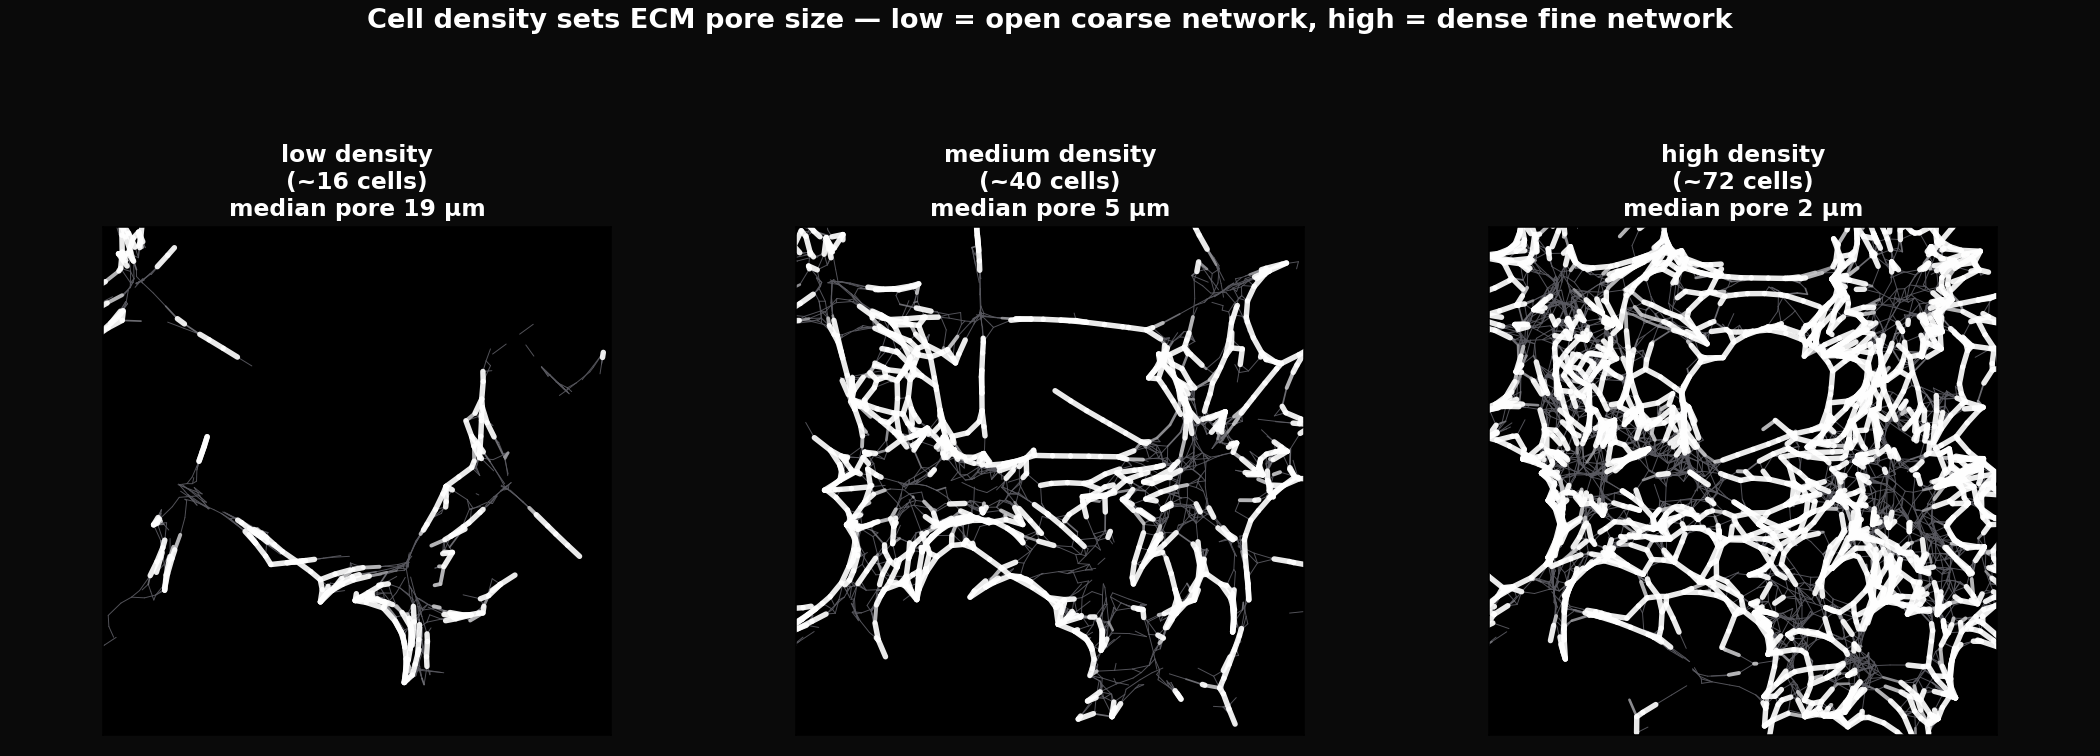
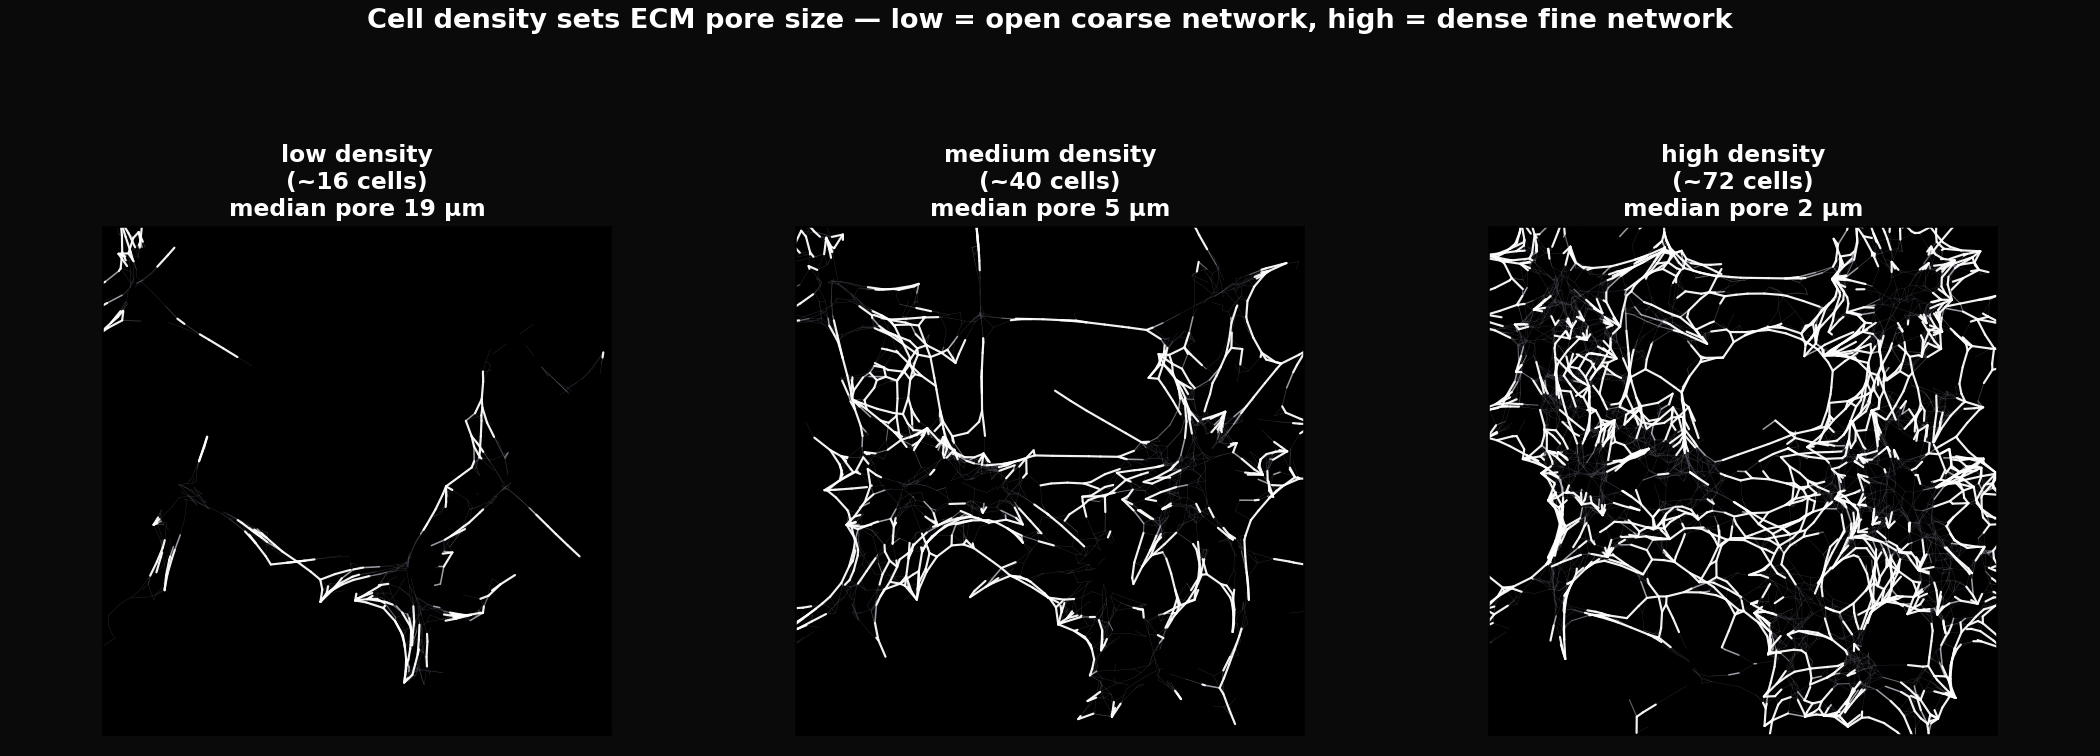
Add spheroid time-course + quantitative analysis; thinner rendering
- run_spheroid.py: a contractile spheroid (cell cluster) in a simple isotropic
  collagen gel, followed over a time axis — matrix condenses into radial collagen
  tracks that mature into permanent struts; two spheroids build an aligned bridge.
- ecm_pipeline/morpho_metrics.py: quantitative ECM metrics (pore sizes, nematic /
  radial alignment, reinforced fraction, strut thickness, connectivity, density
  profile vs distance) for time-course and condition comparisons.
- seeding.py: spheroid / spheroids cluster seeding.
- rendering: much thinner microscopy-like lines in both run_spheroid and
  run_culture (the previous thick white lines looked unrefined).

Quantitative time-course: radial alignment 0.64→ ~0.9 (above isotropic),
reinforced fraction 0→0.42, connectivity 0→0.95, with rim densification.

diff --git a/ecm-remodel3d/run_spheroid.py b/ecm-remodel3d/run_spheroid.py
@@ -1,0 +1,189 @@
+#!/usr/bin/env python3
+"""A spheroid in a simple collagen gel — time-course remodeling + quantification.
+
+Start simple: a uniform collagen sheet with one (or two) contractile spheroids.
+Over time the spheroid condenses the surrounding matrix into radially aligned
+fiber tracks and a dense rim, opening pores further out — the classic
+spheroid-in-collagen result. Two spheroids build an aligned ECM bridge between
+them. The emphasis here is the QUANTITATIVE time-course.
+
+Outputs (output_spheroid/figures/):
+  spheroid_timecourse.png   matrix condensing around the spheroid over time
+  spheroid_metrics.png      radial alignment, near-rim density, pore, connectivity vs t
+  two_spheroid_bridge.png   bridge formation + inter-spheroid alignment vs t
+
+  python run_spheroid.py
+"""
+
+from __future__ import annotations
+
+import os
+
+import matplotlib
+matplotlib.use("Agg")
+import matplotlib.pyplot as plt
+import numpy as np
+
+from ecm_pipeline import ecm_mechanics as mech, ecm_remodel as rem, seeding
+from ecm_pipeline import morpho_metrics as mm
+
+HERE = os.path.dirname(os.path.abspath(__file__))
+OUT = os.path.join(HERE, "output_spheroid")
+FIG = os.path.join(OUT, "figures")
+DOMAIN, Z = 220.0, 110.0
+c = DOMAIN / 2
+
+P = mech.MechParams(reach=26, reach_decay=16, planar=True, traction=1.5)
+RP = rem.RemodelParams(n_steps=8, compaction=0.05, reinforce_rate=0.28,
+                       reinforce_pct=62, slack_pct=32, slack_steps=3)
+ISO = 0.637   # radial-alignment value of an isotropic matrix (2/pi)
+
+
+def gel(seed=4, n_fibers=210):
+    return mech.build_random_network(DOMAIN, n_fibers=n_fibers, fiber_len=60,
+                                     seg_len=6.0, crosslink_dist=4.2,
+                                     seed=seed, slab_thickness=0.0)
+
+
+def draw(ax, net, cells=None):
+    """Thin, microscopy-like dark field (fine bright fibers on black)."""
+    ax.set_facecolor("black")
+    k = net.k_scale
+    kmax = max(k.max(), 1.5)
+    order = np.argsort(k)
+    for idx in order:
+        e = net.edges[idx]
+        pa, pb = net.nodes[e[0]], net.nodes[e[1]]
+        v = min(max((k[idx] - 1.0) / (kmax - 1.0), 0), 1)
+        g = 0.30 + 0.70 * v                     # brightness by reinforcement
+        ax.plot([pa[0], pb[0]], [pa[1], pb[1]], color=(g, g, min(1, g + 0.05)),
+                lw=0.22 + 0.95 * v, alpha=0.55 + 0.4 * v, solid_capstyle="round")
+    if cells is not None and len(cells):
+        ax.scatter(cells[:, 0], cells[:, 1], s=5, c="#35d6d0", alpha=0.35, zorder=5)
+    ax.set_xlim(20, DOMAIN - 20); ax.set_ylim(20, DOMAIN - 20)
+    ax.set_aspect("equal"); ax.set_xticks([]); ax.set_yticks([])
+
+
+def timecourse(cells):
+    """t=0 is the raw isotropic gel; then plastic remodeling frames."""
+    net0 = gel()
+    frames, _ = rem.remodel(net0, cells, P, RP)
+    return [net0] + [f["net"] for f in frames]
+
+
+def reinforced_length(net, k_thresh=1.4):
+    sel = net.k_scale > k_thresh
+    if not sel.any():
+        return 0.0
+    d = net.nodes[net.edges[sel, 1]] - net.nodes[net.edges[sel, 0]]
+    return float(np.sum(np.linalg.norm(d, axis=1)))
+
+
+# --------------------------------------------------------------------------- #
+def single_spheroid():
+    print("[1/2] single spheroid time-course …")
+    center = np.array([c, c, Z])
+    cells = seeding.spheroid(center, n_cells=24, radius=15.0, seed=1)
+    seq = timecourse(cells)
+    cols = [0, 2, 4, 6, len(seq) - 1]
+
+    fig, axes = plt.subplots(1, len(cols), figsize=(16, 4.0))
+    fig.patch.set_facecolor("#0a0a0a")
+    for ax, ci in zip(axes, cols):
+        draw(ax, seq[ci], cells)
+        lab = "t = 0 (isotropic gel)" if ci == 0 else f"t = {ci}"
+        ax.set_title(lab, color="white", fontsize=12, fontweight="bold")
+    fig.suptitle("Spheroid condenses the matrix into radial collagen tracks over time",
+                 color="white", fontweight="bold", fontsize=14, y=1.0)
+    fig.tight_layout(rect=[0, 0, 1, 0.9])
+    fig.savefig(os.path.join(FIG, "spheroid_timecourse.png"), dpi=140, facecolor=fig.get_facecolor())
+    plt.close(fig)
+
+    # ---- quantitative time-course ---------------------------------------
+    t = np.arange(len(seq))
+    radial = [mm.radial_alignment(n, center, reinforced_only=False) for n in seq]
+    reinf = [mm.reinforced_fraction(n) for n in seq]
+    pore = [np.median(mm.pore_sizes(n, DOMAIN, n=1500)) for n in seq]
+    conn = [mm.connectivity(n) for n in seq]
+    rlen = [reinforced_length(n) for n in seq]
+
+    fig, ax = plt.subplots(2, 3, figsize=(15, 8))
+    def plot(a, y, title, ylab, col):
+        a.plot(t, y, "o-", color=col); a.set(title=title, xlabel="time step", ylabel=ylab); a.grid(alpha=0.3)
+    plot(ax[0, 0], radial, "Radial matrix alignment (aster)", "0.64 iso · 1 radial", "#8948ff")
+    ax[0, 0].axhline(ISO, color="#888", ls=":", lw=1); ax[0, 0].text(0.2, ISO + 0.005, "isotropic", color="#888", fontsize=9)
+    plot(ax[0, 1], reinf, "Reinforced (strut) fiber fraction", "fraction", "#00a8a8")
+    plot(ax[0, 2], rlen, "Total reinforced collagen (strut length)", "µm", "#2457ff")
+    plot(ax[1, 0], pore, "Median pore radius", "µm", "#d04b4b")
+    plot(ax[1, 1], conn, "Strut-network connectivity", "largest comp. frac.", "#177245")
+
+    # density profile vs distance, at three times (rim compaction)
+    ax5 = ax[1, 2]
+    for ci, lab, col in [(2, "early", "#9fb3cc"), (len(seq)//2, "mid", "#7aa2ff"), (len(seq)-1, "final", "#d04b4b")]:
+        r, dens = mm.density_profile(seq[ci], center, DOMAIN)
+        if len(r):
+            ax5.plot(r, dens, "o-", color=col, label=lab)
+    ax5.set(title="Reinforced-ECM density vs distance from spheroid", xlabel="distance (µm)", ylabel="fiber length / area")
+    ax5.grid(alpha=0.3); ax5.legend(frameon=False)
+
+    fig.suptitle("Spheroid remodeling — quantitative time-course", fontweight="bold", fontsize=14)
+    fig.tight_layout(rect=[0, 0, 1, 0.96])
+    fig.savefig(os.path.join(FIG, "spheroid_metrics.png"), dpi=140)
+    plt.close(fig)
+    print(f"      radial alignment {radial[0]:.2f} → {radial[-1]:.2f} (iso={ISO}); "
+          f"reinforced {reinf[0]:.2f} → {reinf[-1]:.2f}; pore {pore[0]:.1f} → {pore[-1]:.1f} µm")
+
+
+def two_spheroids():
+    print("[2/2] two-spheroid bridge …")
+    a = np.array([c - 42, c, Z]); b = np.array([c + 42, c, Z])
+    cells = seeding.spheroids([a, b], n_cells=20, radius=13.0, seed=1)
+    seq = timecourse(cells)
+    cols = [0, 2, 5, len(seq) - 1]
+
+    fig, axes = plt.subplots(1, len(cols), figsize=(16, 4.2))
+    fig.patch.set_facecolor("#0a0a0a")
+    for ax, ci in zip(axes, cols):
+        draw(ax, seq[ci], cells)
+        ax.set_title(f"t = {ci}", color="white", fontsize=12, fontweight="bold")
+    fig.suptitle("Two spheroids build an aligned collagen bridge between them",
+                 color="white", fontweight="bold", fontsize=14, y=1.0)
+    fig.tight_layout(rect=[0, 0, 1, 0.9])
+    fig.savefig(os.path.join(FIG, "two_spheroid_bridge.png"), dpi=140, facecolor=fig.get_facecolor())
+    plt.close(fig)
+
+    # reinforced collagen built in the band between the two spheroids
+    axis = b - a
+    def bridge_length(net):
+        sel = net.k_scale > 1.4
+        if sel.sum() < 1:
+            return 0.0
+        mid = 0.5 * (net.nodes[net.edges[sel, 0]] + net.nodes[net.edges[sel, 1]])[:, :2]
+        ab = (b - a)[:2]
+        t = np.clip(((mid - a[:2]) @ ab) / (ab @ ab), 0, 1)
+        proj = a[:2] + t[:, None] * ab
+        dperp = np.linalg.norm(mid - proj, axis=1)
+        d = net.nodes[net.edges[sel, 1]] - net.nodes[net.edges[sel, 0]]
+        L = np.linalg.norm(d, axis=1)
+        return float(np.sum(L[dperp < 22]))
+    bridge = [bridge_length(n) for n in seq]
+    fig, ax = plt.subplots(figsize=(7, 4.5))
+    ax.plot(range(len(seq)), bridge, "o-", color="#8948ff")
+    ax.set(title="Reinforced collagen built in the inter-spheroid bridge",
+           xlabel="time step", ylabel="reinforced fiber length in band (µm)")
+    ax.grid(alpha=0.3)
+    fig.tight_layout()
+    fig.savefig(os.path.join(FIG, "two_spheroid_alignment.png"), dpi=140)
+    plt.close(fig)
+    print(f"      bridge reinforced length {bridge[0]:.0f} → {bridge[-1]:.0f} µm")
+
+
+def main():
+    os.makedirs(FIG, exist_ok=True)
+    single_spheroid()
+    two_spheroids()
+    print("done. figures in", FIG)
+
+
+if __name__ == "__main__":
+    main()

diff --git a/ecm-remodel3d/ecm_pipeline/morpho_metrics.py b/ecm-remodel3d/ecm_pipeline/morpho_metrics.py
@@ -1,0 +1,123 @@
+"""Quantitative ECM-architecture metrics for the 2D culture/spheroid studies.
+
+All operate on a FiberNetwork (from ecm_mechanics / ecm_remodel) projected to the
+xy-plane. They are the readouts that turn "the pictures look different" into
+numbers you can plot over time or compare across conditions:
+
+  pore_sizes              distribution of cell-free gap radii (coverage/openness)
+  nematic_order           global fiber alignment (0 isotropic .. 1 aligned)
+  radial_alignment        fiber alignment RELATIVE to a center (spheroid asters)
+  reinforced_fraction     fraction of fibers matured into load-bearing struts
+  strut_thickness         bundle thickness via local fiber-density on struts
+  connectivity            largest-connected-component fraction of the strut graph
+  density_profile         fiber density vs distance from a center (compaction)
+"""
+
+from __future__ import annotations
+
+import numpy as np
+
+from . import metrics as _m
+
+
+def _edges_xy(net):
+    p1 = net.nodes[net.edges[:, 0]][:, :2]
+    p2 = net.nodes[net.edges[:, 1]][:, :2]
+    mid = 0.5 * (p1 + p2)
+    d = p2 - p1
+    L = np.linalg.norm(d, axis=1)
+    u = d / np.maximum(L[:, None], 1e-9)
+    return p1, p2, mid, u, L
+
+
+def pore_sizes(net, domain, n=4000, seed=1):
+    p1, p2, *_ = _edges_xy(net)
+    rng = np.random.default_rng(seed)
+    pts = rng.uniform(0, domain, size=(n, 2))
+    return _m.point_segment_distance(pts, p1, p2).min(axis=1)
+
+
+def nematic_order(net, reinforced_only=True, k_thresh=1.4):
+    _, _, _, u, L = _edges_xy(net)
+    sel = net.k_scale > k_thresh if reinforced_only else np.ones(len(L), bool)
+    if sel.sum() < 3:
+        return 0.0, np.nan
+    ang = np.arctan2(u[sel, 1], u[sel, 0])
+    w = L[sel]
+    c = np.average(np.cos(2 * ang), weights=w)
+    s = np.average(np.sin(2 * ang), weights=w)
+    order = float(np.hypot(c, s))
+    director = 0.5 * np.arctan2(s, c)
+    return order, director
+
+
+def radial_alignment(net, center, reinforced_only=True, k_thresh=1.4):
+    """Mean |fiber·radial|: 1 = fibers point at the center (aster), 0.5 isotropic."""
+    _, _, mid, u, L = _edges_xy(net)
+    sel = net.k_scale > k_thresh if reinforced_only else np.ones(len(L), bool)
+    if sel.sum() < 3:
+        return np.nan
+    r = mid[sel] - np.asarray(center)[:2]
+    r = r / np.maximum(np.linalg.norm(r, axis=1, keepdims=True), 1e-9)
+    return float(np.average(np.abs(np.einsum("ij,ij->i", u[sel], r)), weights=L[sel]))
+
+
+def reinforced_fraction(net, k_thresh=1.4):
+    return float(np.mean(net.k_scale > k_thresh)) if len(net.k_scale) else 0.0
+
+
+def strut_thickness(net, domain, k_thresh=1.4, cell=6.0):
+    """Median number of reinforced-fiber midpoints per occupied grid cell.
+
+    A proxy for how thick the condensed bundles (struts) are: condensation packs
+    more fibers into the same lateral spot, raising local density on struts.
+    """
+    _, _, mid, _, _ = _edges_xy(net)
+    sel = net.k_scale > k_thresh
+    if sel.sum() < 3:
+        return 0.0
+    keys = np.floor(mid[sel] / cell).astype(int)
+    _, counts = np.unique(keys, axis=0, return_counts=True)
+    return float(np.median(counts))
+
+
+def connectivity(net, k_thresh=1.4):
+    """Largest-connected-component fraction of the reinforced (strut) sub-network."""
+    sel = np.where(net.k_scale > k_thresh)[0]
+    if len(sel) < 2:
+        return 0.0
+    used_nodes = np.unique(net.edges[sel].ravel())
+    remap = {n: i for i, n in enumerate(used_nodes)}
+    parent = list(range(len(used_nodes)))
+
+    def find(a):
+        while parent[a] != a:
+            parent[a] = parent[parent[a]]; a = parent[a]
+        return a
+
+    for e in net.edges[sel]:
+        ra, rb = find(remap[e[0]]), find(remap[e[1]])
+        if ra != rb:
+            parent[ra] = rb
+    sizes = {}
+    for i in range(len(used_nodes)):
+        r = find(i); sizes[r] = sizes.get(r, 0) + 1
+    return float(max(sizes.values()) / len(used_nodes))
+
+
+def density_profile(net, center, domain, k_thresh=1.4, nbins=12):
+    """Reinforced-fiber length per unit area vs distance from `center`."""
+    _, _, mid, _, L = _edges_xy(net)
+    sel = net.k_scale > k_thresh
+    if sel.sum() < 3:
+        return np.array([]), np.array([])
+    r = np.linalg.norm(mid[sel] - np.asarray(center)[:2], axis=1)
+    rmax = domain * 0.5
+    bins = np.linspace(0, rmax, nbins + 1)
+    idx = np.clip(np.digitize(r, bins) - 1, 0, nbins - 1)
+    length = np.zeros(nbins)
+    for i, l in zip(idx, L[sel]):
+        length[i] += l
+    area = np.pi * (bins[1:] ** 2 - bins[:-1] ** 2)
+    centers = 0.5 * (bins[1:] + bins[:-1])
+    return centers, length / area

diff --git a/ecm-remodel3d/ecm_pipeline/seeding.py b/ecm-remodel3d/ecm_pipeline/seeding.py
@@ -32,6 +32,21 @@ def jittered_grid(domain=220.0, spacing=34.0, z=110.0, jitter=0.28, margin=24.0,
     return np.array(pts)
 
 
+def spheroid(center, n_cells=20, radius=13.0, z=110.0, seed=0):
+    """A spheroid = a dense disk-shaped cluster of cells (not a single point)."""
+    rng = np.random.default_rng(seed)
+    rr = radius * np.sqrt(rng.random(n_cells))
+    th = rng.uniform(0, 2 * np.pi, n_cells)
+    xy = np.asarray(center)[:2] + np.column_stack([rr * np.cos(th), rr * np.sin(th)])
+    return np.column_stack([xy, np.full(n_cells, z)])
+
+
+def spheroids(centers, n_cells=20, radius=13.0, z=110.0, seed=0):
+    """Several spheroids; returns the concatenated cell positions."""
+    parts = [spheroid(c, n_cells, radius, z, seed + i) for i, c in enumerate(centers)]
+    return np.concatenate(parts, axis=0) if parts else np.zeros((0, 3))
+
+
 def in_mask(domain, n, mask_fn, z=110.0, margin=12.0, seed=0, max_tries=20000):
     """Seed n cells uniformly inside the region where mask_fn(x,y) is True.
 

diff --git a/ecm-remodel3d/run_culture.py b/ecm-remodel3d/run_culture.py
@@ -65,9 +65,10 @@ def draw_darkfield(ax, net, cells=None, show_cells=False):
         pa, pb = net.nodes[e[0]], net.nodes[e[1]]
         v = (k[idx] - 1.0) / (kmax - 1.0)
         # brighter + thicker where reinforced (the condensed struts)
-        g = 0.35 + 0.65 * min(max(v, 0), 1)
-        ax.plot([pa[0], pb[0]], [pa[1], pb[1]], color=(g, g, g*0.96+0.04),
-                lw=0.5 + 2.3 * min(max(v, 0), 1), alpha=0.92, solid_capstyle="round")
+        g = 0.30 + 0.70 * min(max(v, 0), 1)
+        ax.plot([pa[0], pb[0]], [pa[1], pb[1]], color=(g, g, min(1, g + 0.05)),
+                lw=0.22 + 0.9 * min(max(v, 0), 1), alpha=0.55 + 0.4 * min(max(v, 0), 1),
+                solid_capstyle="round")
     if show_cells and cells is not None:
         ax.scatter(cells[:, 0], cells[:, 1], s=14, c="#35d6d0", alpha=0.5, zorder=5)
     ax.set_xlim(20, DOMAIN - 20); ax.set_ylim(20, DOMAIN - 20)

diff --git a/ecm-remodel3d/README.md b/ecm-remodel3d/README.md
@@ -130,6 +130,22 @@ python run_culture.py   # output_culture/: density_morphology, density_poresize,
 Result: median pore ~19 µm (low density, open network) → ~2 µm (high density,
 dense network); ring / stripe / block print masks give ring / stripe / block ECM.
 
+### Spheroid time-course + quantitative analysis
+
+`run_spheroid.py` drops a contractile spheroid (a cluster of cells) into a simple
+isotropic collagen gel and follows the remodeling along a time axis: the matrix
+condenses into radial collagen tracks (an aster), which mature into permanent
+struts. Two spheroids build an aligned collagen bridge between them. The emphasis
+is quantitative — `ecm_pipeline/morpho_metrics.py` measures, per time step:
+
+- radial alignment (0.64 isotropic → radial), reinforced-fiber fraction,
+- total reinforced collagen, median pore radius, strut-network connectivity,
+- reinforced-ECM density vs distance from the spheroid (rim compaction).
+
+```bash
+python run_spheroid.py   # output_spheroid/: timecourse, metrics, two-spheroid bridge
+```
+
 Why the nonlinearity matters for *prediction*: collagen transmits cell force over
 long range only because compressed fibers buckle and tense fibers stiffen,
 focusing load into tracks. A linear material diffuses force and predicts no
@@ -249,6 +265,7 @@ ecm-remodel3d/
   run_remodel.py           # plastic remodeling: tracks that outlast the cells
   run_morphology2d.py      # 2D: cell arrangement → ECM morphology over a time axis
   run_culture.py           # cell density / DLP pattern → ECM pore morphology
+  run_spheroid.py          # spheroid in gel → time-course remodeling + quantification
   make_track_scene.py      # export the cells' collagen tracks to viewer/scene.json
   make_viewer_scene.py     # export a grown network to viewer/scene.json
   viewer/index.html        # three.js 3D viewer (SSAO, translucent organic cells)
@@ -259,7 +276,8 @@ ecm-remodel3d/
     ecm_network.py         # growing branching crosslinked ECM NETWORK (web/mesh)
     ecm_mechanics.py       # fiber-network mechanics under cell traction (FIRE solver)
     ecm_remodel.py         # plastic, time-evolving remodeling driven by tension
-    seeding.py             # cell seeding patterns + DLP-printed gel masks
+    seeding.py             # cell seeding patterns + DLP masks + spheroids
+    morpho_metrics.py      # quantitative ECM-architecture metrics (2D)
     web_export.py          # export a scene to JSON for the three.js viewer
     physicell_parser.py    # MultiCellDS xml + .mat → CSV schema  (← real data in)
     fixture.py             # write synthetic frames AS MultiCellDS, for verification
